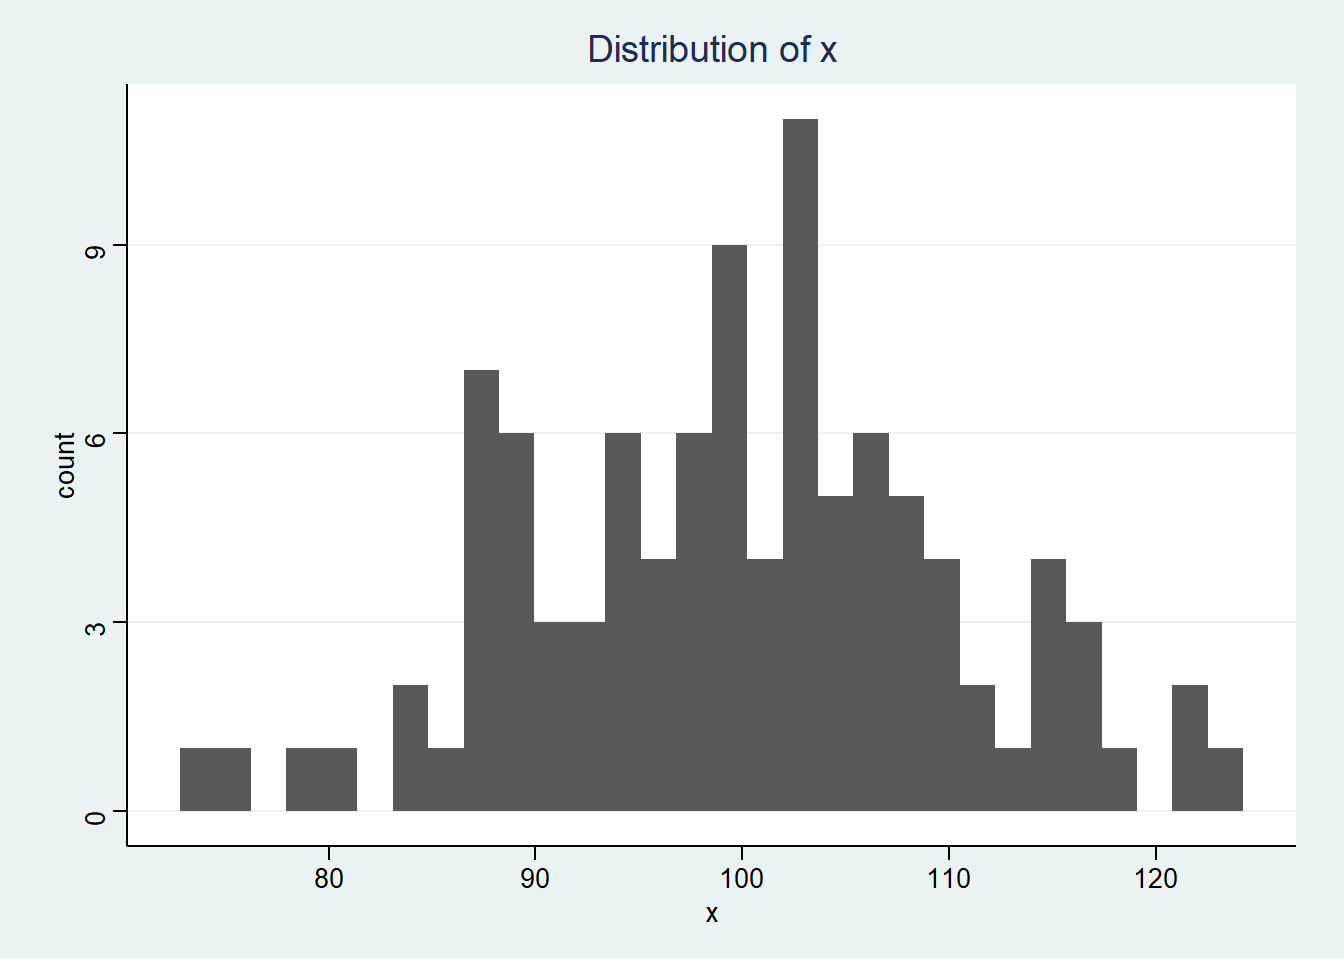
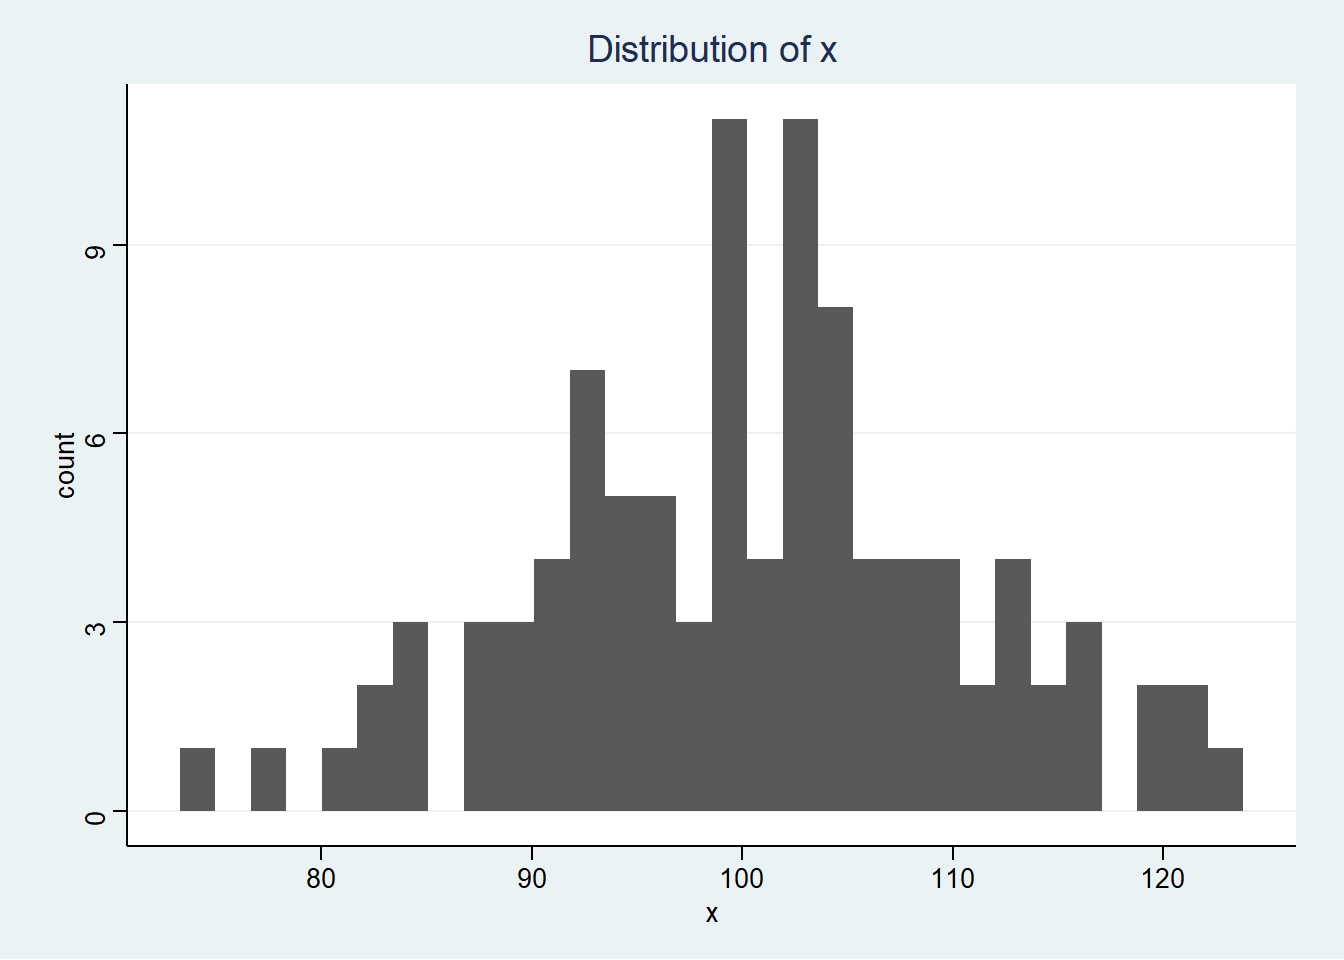
more content updates

diff --git a/paper-template/cross-sectional-multilevel.html b/paper-template/cross-sectional-multilevel.html
@@ -51,11 +51,11 @@
 <h2 class="anchored" data-anchor-id="introduction">Introduction</h2>
 <p>Why is this an important problem? Are a large number of people affected by A? Are a large number of people affected by B? Are a large number of people affected by C? Are these effects particularly severe? Are populations affected by A, C or B particularly underserved? Is there evidence to suggest a relationship between these factors, or is this relationship under-examined?</p>
 <p>What do we know about the nature of this question already?. Here, please review 3-5 articles that discuss the importance of one factor by itself, or some relationship of the factors.</p>
-<p>(author, date) studied (sample) to examine (research question). (author, date) found that ______________. (author, date) also found that ______________. (author, date) also found that ______________. However, one (strength/limitation) of the study was that __________________________. These authors suggested (policy, program, intervention, research strategy).</p>
-<p>(author, date) studied (sample) to examine (research question). (author, date) found that ______________. (author, date) also found that ______________. (author, date) also found that ______________. However, one (strength/limitation) of the study was that __________________________. These authors suggested (policy, program, intervention, research strategy).</p>
-<p>(author, date) studied (sample) to examine (research question). (author, date) found that ______________. (author, date) also found that ______________. (author, date) also found that ______________. However, one (strength/limitation) of the study was that __________________________. These authors suggested (policy, program, intervention, research strategy).</p>
-<p>(author, date) studied (sample) to examine (research question). (author, date) found that ______________. (author, date) also found that ______________. (author, date) also found that ______________. However, one (strength/limitation) of the study was that __________________________. These authors suggested (policy, program, intervention, research strategy).</p>
-<p>(author, date) studied (sample) to examine (research question). (author, date) found that ______________. (author, date) also found that ______________. (author, date) also found that ______________. However, one (strength/limitation) of the study was that __________________________. These authors suggested (policy, program, intervention, research strategy).</p>
+<p>(Author, date) studied (sample) to examine (research question). (Author, date) found that ______________. (Author, date) also found that ______________. (Author, date) also found that ______________. However, one (strength/limitation) of the study was that __________________________. These authors suggested (policy, program, intervention, research strategy).</p>
+<p>(Author, date) studied (sample) to examine (research question). (Author, date) found that ______________. (Author, date) also found that ______________. (Author, date) also found that ______________. However, one (strength/limitation) of the study was that __________________________. These authors suggested (policy, program, intervention, research strategy).</p>
+<p>(Author, date) studied (sample) to examine (research question). (Author, date) found that ______________. (Author, date) also found that ______________. (Author, date) also found that ______________. However, one (strength/limitation) of the study was that __________________________. These authors suggested (policy, program, intervention, research strategy).</p>
+<p>(Author, date) studied (sample) to examine (research question). (Author, date) found that ______________. (Author, date) also found that ______________. (Author, date) also found that ______________. However, one (strength/limitation) of the study was that __________________________. These authors suggested (policy, program, intervention, research strategy).</p>
+<p>(Author, date) studied (sample) to examine (research question). (Author, date) found that ______________. (Author, date) also found that ______________. (Author, date) also found that ______________. However, one (strength/limitation) of the study was that __________________________. These authors suggested (policy, program, intervention, research strategy).</p>
 </section>
 <section id="research-question" class="level2">
 <h2 class="anchored" data-anchor-id="research-question">Research Question</h2>
@@ -148,22 +148,22 @@
 <td style="text-align: center;">NA</td>
 <td style="text-align: center;">NA</td>
 <td style="text-align: center;">NA</td>
-<td style="text-align: center;">0: 64, 1: 36</td>
+<td style="text-align: center;">0: 50, 1: 50</td>
 </tr>
 <tr class="even">
 <td style="text-align: center;">x</td>
-<td style="text-align: center;">99.93</td>
-<td style="text-align: center;">10.26</td>
-<td style="text-align: center;">72.95</td>
-<td style="text-align: center;">122.6</td>
+<td style="text-align: center;">100.5</td>
+<td style="text-align: center;">9.995</td>
+<td style="text-align: center;">74.86</td>
+<td style="text-align: center;">123.7</td>
 <td style="text-align: center;">NA</td>
 </tr>
 <tr class="odd">
 <td style="text-align: center;">y</td>
-<td style="text-align: center;">104.1</td>
-<td style="text-align: center;">13.28</td>
-<td style="text-align: center;">66.67</td>
-<td style="text-align: center;">136.5</td>
+<td style="text-align: center;">105.2</td>
+<td style="text-align: center;">14.67</td>
+<td style="text-align: center;">63.25</td>
+<td style="text-align: center;">147.8</td>
 <td style="text-align: center;">NA</td>
 </tr>
 <tr class="even">
@@ -222,24 +222,24 @@
 </tr>
 <tr>
 <td style=" padding:0.2cm; text-align:left; vertical-align:top; text-align:left; ">(Intercept)</td>
-<td style=" padding:0.2cm; text-align:left; vertical-align:top; text-align:center;  ">13.39</td>
-<td style=" padding:0.2cm; text-align:left; vertical-align:top; text-align:center;  ">9.32</td>
-<td style=" padding:0.2cm; text-align:left; vertical-align:top; text-align:center;  ">1.44</td>
-<td style=" padding:0.2cm; text-align:left; vertical-align:top; text-align:center;  ">0.154</td>
+<td style=" padding:0.2cm; text-align:left; vertical-align:top; text-align:center;  ">-1.39</td>
+<td style=" padding:0.2cm; text-align:left; vertical-align:top; text-align:center;  ">10.31</td>
+<td style=" padding:0.2cm; text-align:left; vertical-align:top; text-align:center;  ">-0.13</td>
+<td style=" padding:0.2cm; text-align:left; vertical-align:top; text-align:center;  ">0.893</td>
 </tr>
 <tr>
 <td style=" padding:0.2cm; text-align:left; vertical-align:top; text-align:left; ">x</td>
-<td style=" padding:0.2cm; text-align:left; vertical-align:top; text-align:center;  ">0.89</td>
-<td style=" padding:0.2cm; text-align:left; vertical-align:top; text-align:center;  ">0.09</td>
-<td style=" padding:0.2cm; text-align:left; vertical-align:top; text-align:center;  ">9.78</td>
+<td style=" padding:0.2cm; text-align:left; vertical-align:top; text-align:center;  ">1.05</td>
+<td style=" padding:0.2cm; text-align:left; vertical-align:top; text-align:center;  ">0.10</td>
+<td style=" padding:0.2cm; text-align:left; vertical-align:top; text-align:center;  ">10.22</td>
 <td style=" padding:0.2cm; text-align:left; vertical-align:top; text-align:center;  "><strong>&lt;0.001</strong></td>
 </tr>
 <tr>
 <td style=" padding:0.2cm; text-align:left; vertical-align:top; text-align:left; ">z [1]</td>
-<td style=" padding:0.2cm; text-align:left; vertical-align:top; text-align:center;  ">4.23</td>
-<td style=" padding:0.2cm; text-align:left; vertical-align:top; text-align:center;  ">1.91</td>
-<td style=" padding:0.2cm; text-align:left; vertical-align:top; text-align:center;  ">2.22</td>
-<td style=" padding:0.2cm; text-align:left; vertical-align:top; text-align:center;  "><strong>0.029</strong></td>
+<td style=" padding:0.2cm; text-align:left; vertical-align:top; text-align:center;  ">1.92</td>
+<td style=" padding:0.2cm; text-align:left; vertical-align:top; text-align:center;  ">2.04</td>
+<td style=" padding:0.2cm; text-align:left; vertical-align:top; text-align:center;  ">0.94</td>
+<td style=" padding:0.2cm; text-align:left; vertical-align:top; text-align:center;  ">0.350</td>
 </tr>
 <tr>
 <td colspan="5" style="font-weight:bold; text-align:left; padding-top:.8em;">Random Effects</td>
@@ -247,16 +247,16 @@
 
 <tr>
 <td style=" padding:0.2cm; text-align:left; vertical-align:top; text-align:left; padding-top:0.1cm; padding-bottom:0.1cm;">σ<sup>2</sup></td>
-<td style=" padding:0.2cm; text-align:left; vertical-align:top; padding-top:0.1cm; padding-bottom:0.1cm; text-align:left;" colspan="4">80.37</td>
+<td style=" padding:0.2cm; text-align:left; vertical-align:top; padding-top:0.1cm; padding-bottom:0.1cm; text-align:left;" colspan="4">101.44</td>
 </tr>
 
 <tr>
 <td style=" padding:0.2cm; text-align:left; vertical-align:top; text-align:left; padding-top:0.1cm; padding-bottom:0.1cm;">τ<sub>00</sub> <sub>u</sub></td>
-<td style=" padding:0.2cm; text-align:left; vertical-align:top; padding-top:0.1cm; padding-bottom:0.1cm; text-align:left;" colspan="4">14.38</td>
+<td style=" padding:0.2cm; text-align:left; vertical-align:top; padding-top:0.1cm; padding-bottom:0.1cm; text-align:left;" colspan="4">1.59</td>
 
 </tr><tr>
 <td style=" padding:0.2cm; text-align:left; vertical-align:top; text-align:left; padding-top:0.1cm; padding-bottom:0.1cm;">ICC</td>
-<td style=" padding:0.2cm; text-align:left; vertical-align:top; padding-top:0.1cm; padding-bottom:0.1cm; text-align:left;" colspan="4">0.15</td>
+<td style=" padding:0.2cm; text-align:left; vertical-align:top; padding-top:0.1cm; padding-bottom:0.1cm; text-align:left;" colspan="4">0.02</td>
 
 </tr><tr>
 <td style=" padding:0.2cm; text-align:left; vertical-align:top; text-align:left; padding-top:0.1cm; padding-bottom:0.1cm;">N <sub>u</sub></td>
@@ -267,7 +267,7 @@
 </tr>
 <tr>
 <td style=" padding:0.2cm; text-align:left; vertical-align:top; text-align:left; padding-top:0.1cm; padding-bottom:0.1cm;">Marginal R<sup>2</sup> / Conditional R<sup>2</sup></td>
-<td style=" padding:0.2cm; text-align:left; vertical-align:top; padding-top:0.1cm; padding-bottom:0.1cm; text-align:left;" colspan="4">0.473 / 0.553</td>
+<td style=" padding:0.2cm; text-align:left; vertical-align:top; padding-top:0.1cm; padding-bottom:0.1cm; text-align:left;" colspan="4">0.525 / 0.532</td>
 </tr>
 
 </tbody></table>
